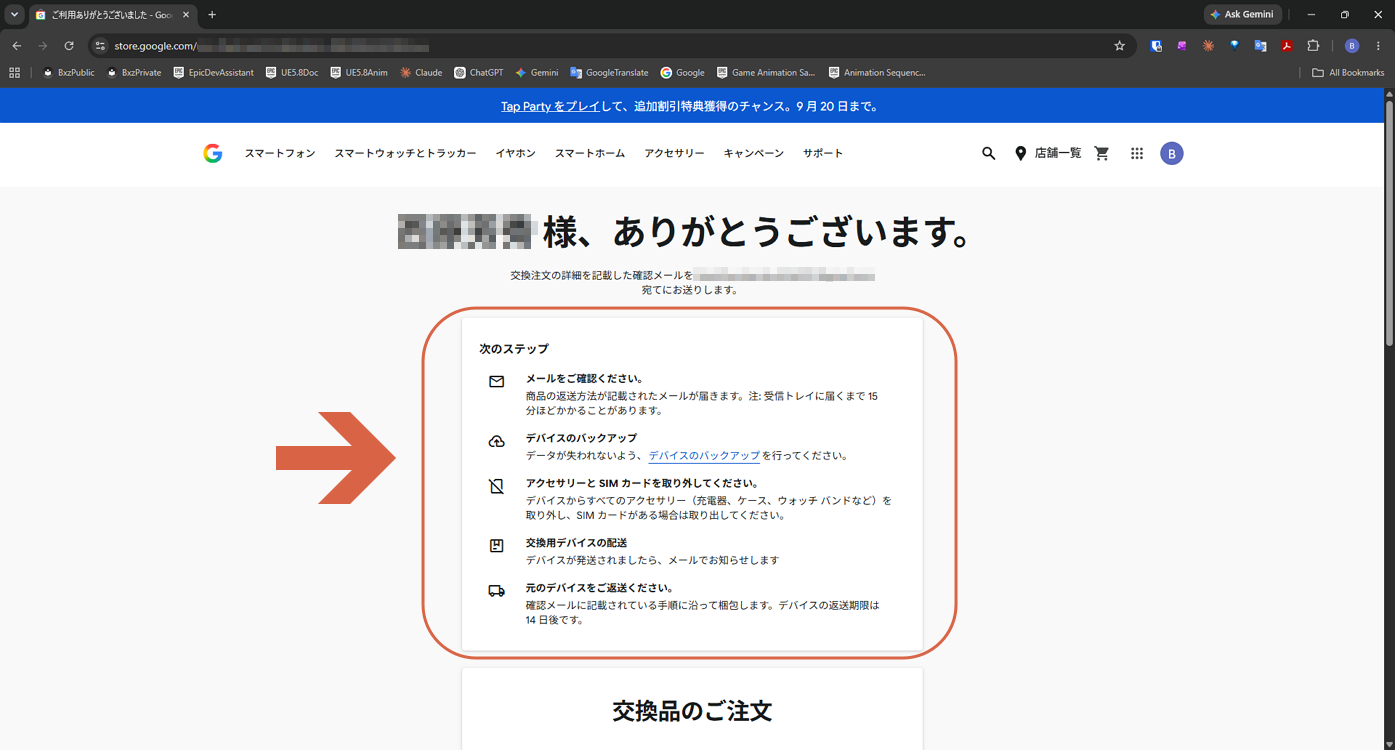
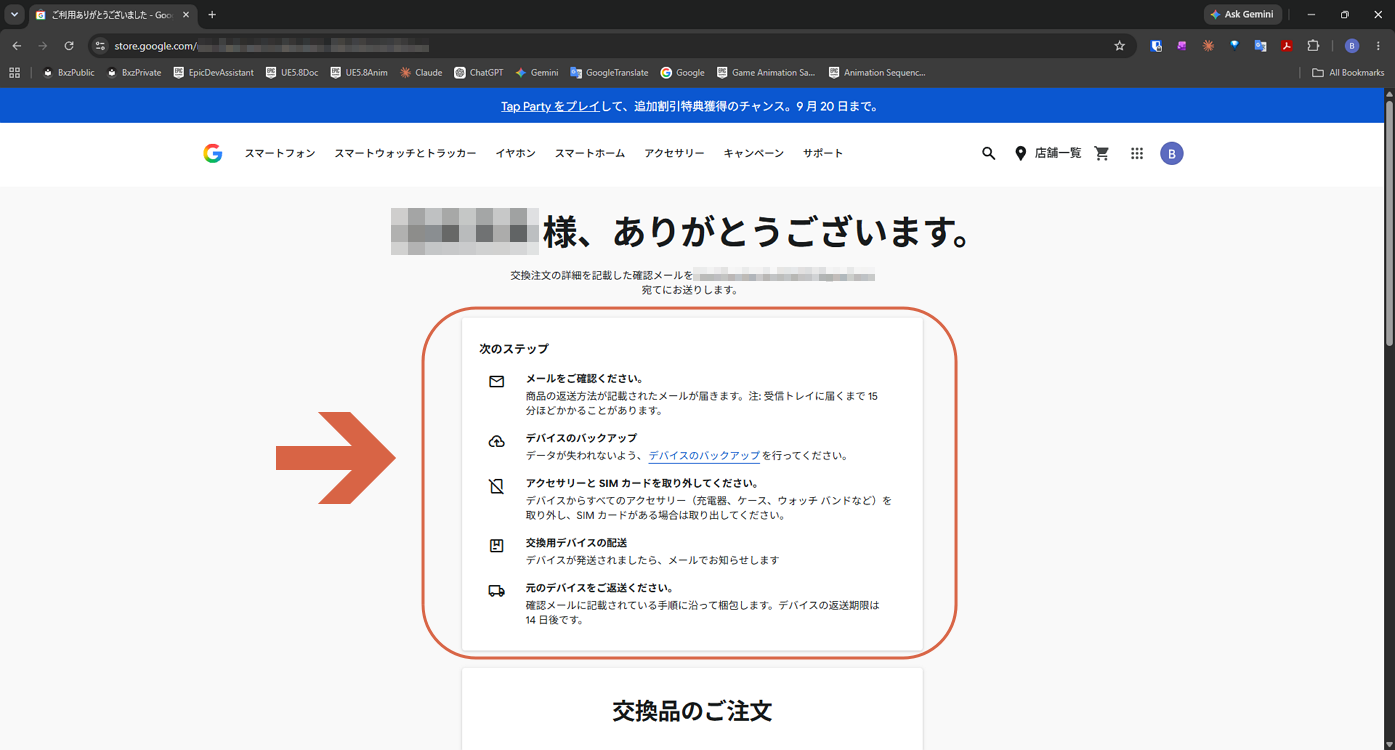
Swap in re-blurred Pixel warranty screenshots
Uses the user's mosaic-blurred Find Hub image (replacing two separate crops with one), and re-covers the RMA number in the email screenshot's tab title.

Changed region(s): [[0.2774, 0.276, 0.4007, 0.3373]]

diff --git a/src/docs/en/mobiles/google-pixel/replace-pixel-9-pro-fold-warranty.md b/src/docs/en/mobiles/google-pixel/replace-pixel-9-pro-fold-warranty.md
@@ -64,9 +64,7 @@ Scroll down in the email to see the **元のデバイス** (original device) and
 
 If the old phone won't power on — for example, because the battery is dead — you can't erase it from the device itself. Use Google Find Hub instead: select the device, click **Factory reset**, then click **Next** and sign in to your Google Account.
 
-![Find Hub device panel with Factory reset highlighted](img/replace-pixel-9-pro-fold-warranty-07.png)
-
-![Find Hub factory reset confirmation dialog](img/replace-pixel-9-pro-fold-warranty-08.png)
+![Find Hub device panel with Factory reset highlighted, and the factory reset confirmation dialog](img/replace-pixel-9-pro-fold-warranty-07.png)
 
 If the phone is offline, erasing starts the next time it comes online.
 
